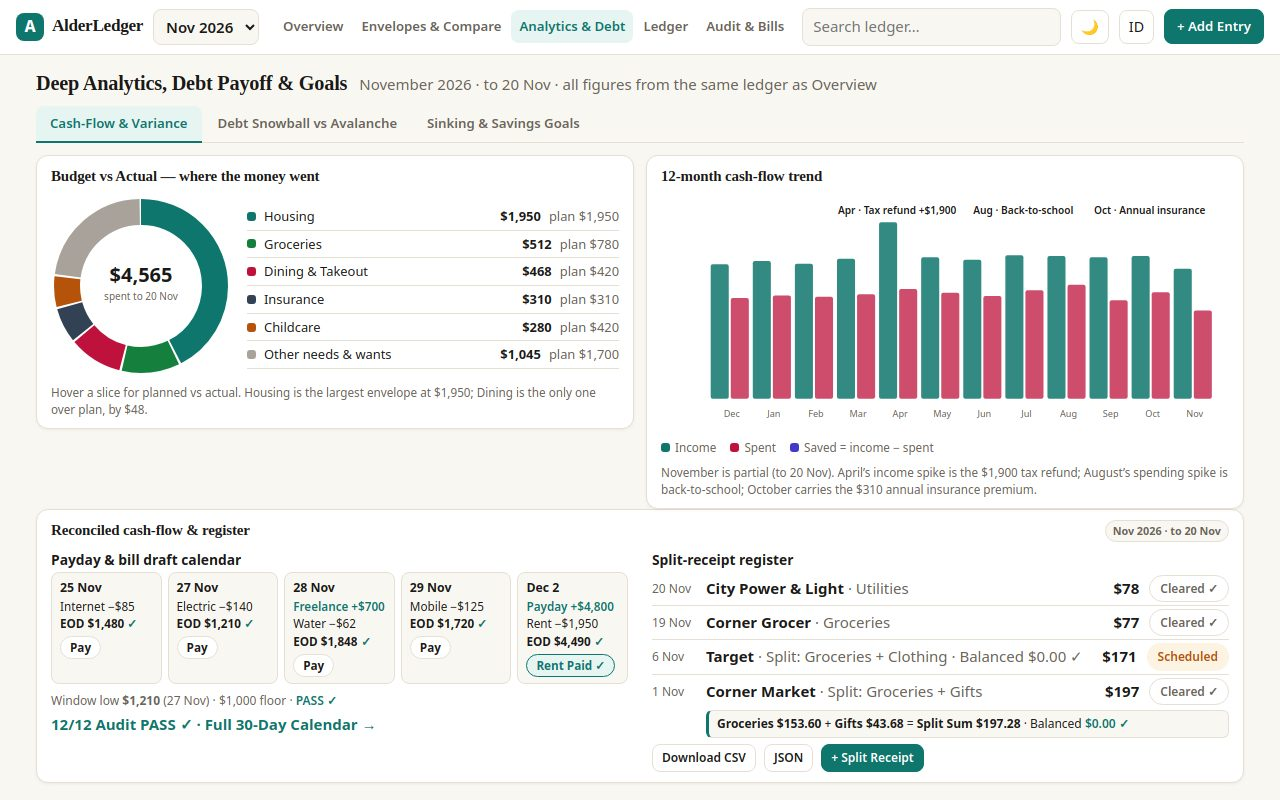
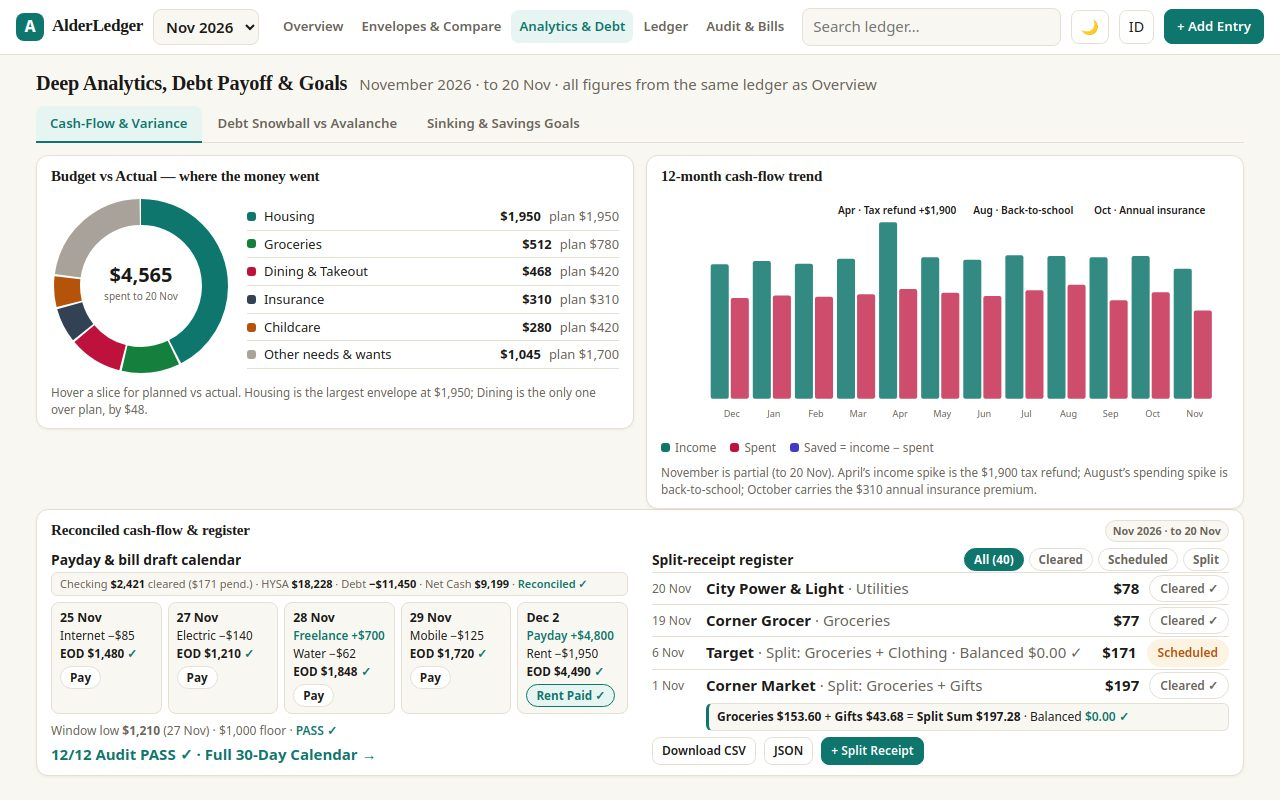
AlderLedger V7: account reconciliation bar + register filter chips
- Shot 3 strip, left: a 1-line Account Reconciliation bar now sits
  under 'Payday & bill draft calendar' — 'Checking $2,421 cleared
  ($171 pend.) · HYSA $18,228 · Debt −$11,450 · Net Cash $9,199 ·
  Reconciled ✓'. Every figure is computed live: the checking cleared
  balance is CUSHION[19] + scheduledTotal (the same formula the
  Overview's 'Pending · cleared' note uses), HYSA is the emergency
  goal balance, debt is the DEBTS sum, net cash reconciles them, and
  the Reconciled check reads the 12/12 audit.
- Shot 3 strip, right: working filter chips sit beside the
  'Split-receipt register' header — All (40) | Cleared | Scheduled |
  Split, default All. Clicking a chip filters the visible rows live:
  Split shows Target $171 + Corner Market $197.28, Scheduled shows
  Target alone, Cleared shows the three cleared rows, and the expanded
  Corner Market split check appears whenever Corner Market is in the
  filtered set. The filter lives in state.stripFilter (session UI
  state, not persisted).
- Fit: the chips share the h3's row (they add ~5px) and the register
  rows lose 1px of padding each, so the strip ends at 776px — 12px
  inside the 788px budget. Mobile: the chips wrap and the recon bar
  wraps to two lines; scrollWidth stays 390 everywhere.
- Audit still 12/12, 0 console/page/network errors, tiles + floor +
  split check untouched (probe-v7 re-verified the V6 figures), debt
  pill clearance 14.0, mobile debt firstSchedRow 800. Shots 1, 2 and 4
[…]

Changed region(s): [[0.0312, 0.7188, 0.9688, 0.9688], [0.75, 0.6875, 0.9688, 0.7188]]

diff --git a/app/views/analytics.js b/app/views/analytics.js
@@ -68,15 +68,24 @@ function registerStrip(state, s, audit) {
   const lowEod = Math.min(...eods);
   const lowDay = lowEod === decBuffer ? 'Dec 2' : dLabel(dueBills.find((b) => CUSHION[Number(b.due.slice(8, 10)) - 1] === lowEod).due);
   const floorOk = lowEod >= 100000;
-  // --- Right: split-receipt register. The top three rows stay single-line;
-  // Corner Market is expanded with its live split breakdown, computed from
-  // the actual splits (Groceries $153.60 + Gifts $43.68 = $197.28) — the
-  // prompt's $142 / $55 figures are not the seeded split, so they are not
-  // used; the strip reconciles with the ledger instead.
+  // --- Account reconciliation bar: checking (cleared balance = the 20 Nov
+  // EOD plus the pending scheduled amount, the same formula the Overview's
+  // "Pending · cleared" note uses), the emergency HYSA, total debt, and the
+  // net cash that reconciles them. All computed, none hardcoded.
+  const checkingCleared = CUSHION[19] + s.scheduledTotal;
+  const hysa = GOALS.find((g) => g.id === 'emergency').balance;
+  const debtTotal = DEBTS.reduce((a, d) => a + d.balance, 0);
+  const netCash = checkingCleared + hysa - debtTotal;
+  const auditOk = audit && audit.passed === audit.total;
+  const reconBar = `<div class="recon-bar">Checking <b>${fmt(checkingCleared)}</b> cleared (${fmt(s.scheduledTotal)} pend.) · HYSA <b>${fmt(hysa)}</b> · Debt <b>−${fmt(debtTotal)}</b> · Net Cash <b>${fmt(netCash)}</b> · <b class="${auditOk ? 'good' : 'bad'}">${auditOk ? 'Reconciled ✓' : 'Reconciled — check'}</b></div>`;
+  // --- Right: split-receipt register, with live filter chips. The strip
+  // shows the top 4 rows by date; the chips filter that set (All shows all
+  // four, Split shows the two split receipts, Scheduled shows Target alone).
   const splits = s.txns.filter((x) => x.splits);
   const recent = [...s.txns].filter((x) => !x.splits && x.type === 'expense').sort((a, b) => b.date.localeCompare(a.date) || b.amount - a.amount).slice(0, 2);
   const corner = splits.find((x) => x.payee === 'Corner Market');
-  const others = [...splits.filter((x) => x !== corner), ...recent].sort((a, b) => b.date.localeCompare(a.date) || b.amount - a.amount).slice(0, 3);
+  const filter = state.stripFilter || 'all';
+  const visible = (x) => filter === 'all' || (filter === 'cleared' && x.status === 'cleared') || (filter === 'scheduled' && x.status === 'scheduled') || (filter === 'split' && !!x.splits);
   const regRow = (x) => {
     // The expanded Corner Market row drops the "· Balanced $0.00 ✓" from
     // its sub-line — the split check directly below it carries the full
@@ -86,20 +95,21 @@ function registerStrip(state, s, audit) {
       : esc(envName(x.envelope));
     return `<div class="reg-row"><span class="reg-date">${dLabel(x.date)}</span><span class="reg-payee"><b>${esc(x.payee)}</b> <span class="muted">· ${sub}</span></span><b class="num">${fmt(x.amount)}</b><button class="pill-btn status-pill${x.status === 'scheduled' ? ' scheduled' : ''}" data-action="txn-status" data-id="${x.id}" title="Click to toggle cleared / scheduled">${x.status === 'scheduled' ? 'Scheduled' : 'Cleared ✓'}</button></div>`;
   };
-  const regRows = others.map(regRow).join('');
+  const regRows = [...splits.filter((x) => x !== corner), ...recent].sort((a, b) => b.date.localeCompare(a.date) || b.amount - a.amount).slice(0, 3).filter(visible).map(regRow).join('');
   const splitSum = corner.splits.reduce((a, sp) => a + sp.amount, 0);
   const splitBal = corner.amount - splitSum;
-  const splitCheck = `${regRow(corner)}
-    <div class="split-check">${corner.splits.map((sp) => `<b>${esc(shortEnv(sp.envelope))} ${fmt2(sp.amount)}</b>`).join(' + ')} = <b>Split Sum ${fmt2(splitSum)}</b> · Balanced <b class="good">${fmt2(splitBal)} ✓</b></div>`;
-  const auditOk = audit && audit.passed === audit.total;
+  const splitCheck = visible(corner) ? `${regRow(corner)}
+    <div class="split-check">${corner.splits.map((sp) => `<b>${esc(shortEnv(sp.envelope))} ${fmt2(sp.amount)}</b>`).join(' + ')} = <b>Split Sum ${fmt2(splitSum)}</b> · Balanced <b class="good">${fmt2(splitBal)} ✓</b></div>` : '';
+  const chip = (f, label) => `<button class="reg-chip${filter === f ? ' on' : ''}" data-action="strip-filter" data-filter="${f}" title="Filter the register">${label}</button>`;
   return `<section class="card strip-card"><div class="card-head"><h2>Reconciled cash-flow &amp; register</h2><span class="pill">Nov 2026 · to 20 Nov</span></div>
     <div class="sched-cols">
       <div><h3>Payday &amp; bill draft calendar</h3>
+        ${reconBar}
         <div class="cal-tiles">${tiles}${dec2}</div>
         <p class="strip-floor">Window low <b>${fmt(lowEod)}</b> (${esc(lowDay)}) · $1,000 floor · <b class="${floorOk ? 'good' : 'bad'}">${floorOk ? 'PASS ✓' : 'BELOW — check'}</b></p>
         <p class="strip-link"><a href="#/audit">${audit ? `${audit.passed}/${audit.total} Audit ${auditOk ? 'PASS ✓' : '— check'}` : 'Audit'} · Full 30-Day Calendar →</a></p>
       </div>
-      <div><h3>Split-receipt register</h3>
+      <div><div class="reg-head"><h3>Split-receipt register</h3><div class="reg-filters">${chip('all', `All (${s.txns.length})`)}${chip('cleared', 'Cleared')}${chip('scheduled', 'Scheduled')}${chip('split', 'Split')}</div></div>
         ${regRows}
         ${splitCheck}
         <div class="strip-actions"><button class="btn btn-sm" data-action="export" data-kind="csv">Download CSV</button><button class="btn btn-sm" data-action="export" data-kind="json">JSON</button><a class="btn btn-sm btn-primary" href="#/ledger">+ Split Receipt</a></div>

diff --git a/app/style.css b/app/style.css
@@ -317,7 +317,16 @@ button.cal-bill { border: 0; cursor: pointer; font: inherit; text-align: left; w
 /* V6: the strip must end at <= 785px, so its rows and actions are tighter
    than the rest of the app — the register rows lose 3px of padding each
    and the actions sit 4px closer to the split check. */
-.strip-card .reg-row { padding: 3px 0; }
+.strip-card .reg-row { padding: 2px 0; }
+.recon-bar { font-size: 11px; line-height: 1.45; color: var(--muted); background: var(--bg); border: 1px solid var(--border); border-radius: 6px; padding: 3px 8px; margin: 2px 0 6px; }
+.recon-bar b { color: var(--ink); }
+.recon-bar b.good { color: var(--teal); }
+.reg-head { display: flex; align-items: center; justify-content: space-between; gap: 8px; flex-wrap: wrap; }
+.reg-head h3 { margin: 2px 0; }
+.reg-filters { display: flex; gap: 5px; flex-wrap: wrap; }
+.reg-chip { border: 1px solid var(--border); background: var(--card); color: var(--muted); border-radius: 999px; padding: 2px 9px; font: inherit; font-size: 0.78rem; font-weight: 700; cursor: pointer; }
+.reg-chip:hover { border-color: var(--teal); color: var(--teal); }
+.reg-chip.on { background: var(--teal); border-color: var(--teal); color: #fff; }
 .strip-card .card-head { margin-bottom: 6px; }
 @media (max-width: 640px) {
   .cal-tiles { grid-template-columns: repeat(3, minmax(0, 1fr)); }

diff --git a/app/main.js b/app/main.js
@@ -30,7 +30,7 @@ const state = {
   month: '2026-11', lang: localStorage.getItem('alderledger-lang') || 'en',
   theme: localStorage.getItem('alderledger-theme') || 'light',
   groupFilter: 'All', selectedEnv: 'dining', chartMode: 'cushion',
-  compareA: '2026-11', compareB: 'target', analyticsTab: 'variance', debtMethod: 'snowball',
+  compareA: '2026-11', compareB: 'target', analyticsTab: 'variance', stripFilter: 'all', debtMethod: 'snowball',
   debtExtra: 30000, debtTrims: { dining: false, subs: false, fun: false }, debtShock: 0,
   ledgerSearch: '', ledgerGroup: 'All', ledgerEnv: '',
   ledgerFrom: '', ledgerTo: '', ledgerSort: 'date-desc', sortEnv: 'spent-desc',
@@ -262,6 +262,7 @@ document.addEventListener('click', (ev) => {
   else if (action === 'apply-503020') apply503020();
   else if (action === 'debt-method') { state.debtMethod = el.dataset.method; render(); }
   else if (action === 'atab') { location.hash = '#/analytics/' + el.dataset.tab; }
+  else if (action === 'strip-filter') { state.stripFilter = el.dataset.filter; render(); }
   else if (action === 'sort-env') { state.sortEnv = el.dataset.key; render(); }
   else if (action === 'ledger-sort') { state.ledgerSort = el.dataset.key; render(); }
   else if (action === 'delete-txn') {
